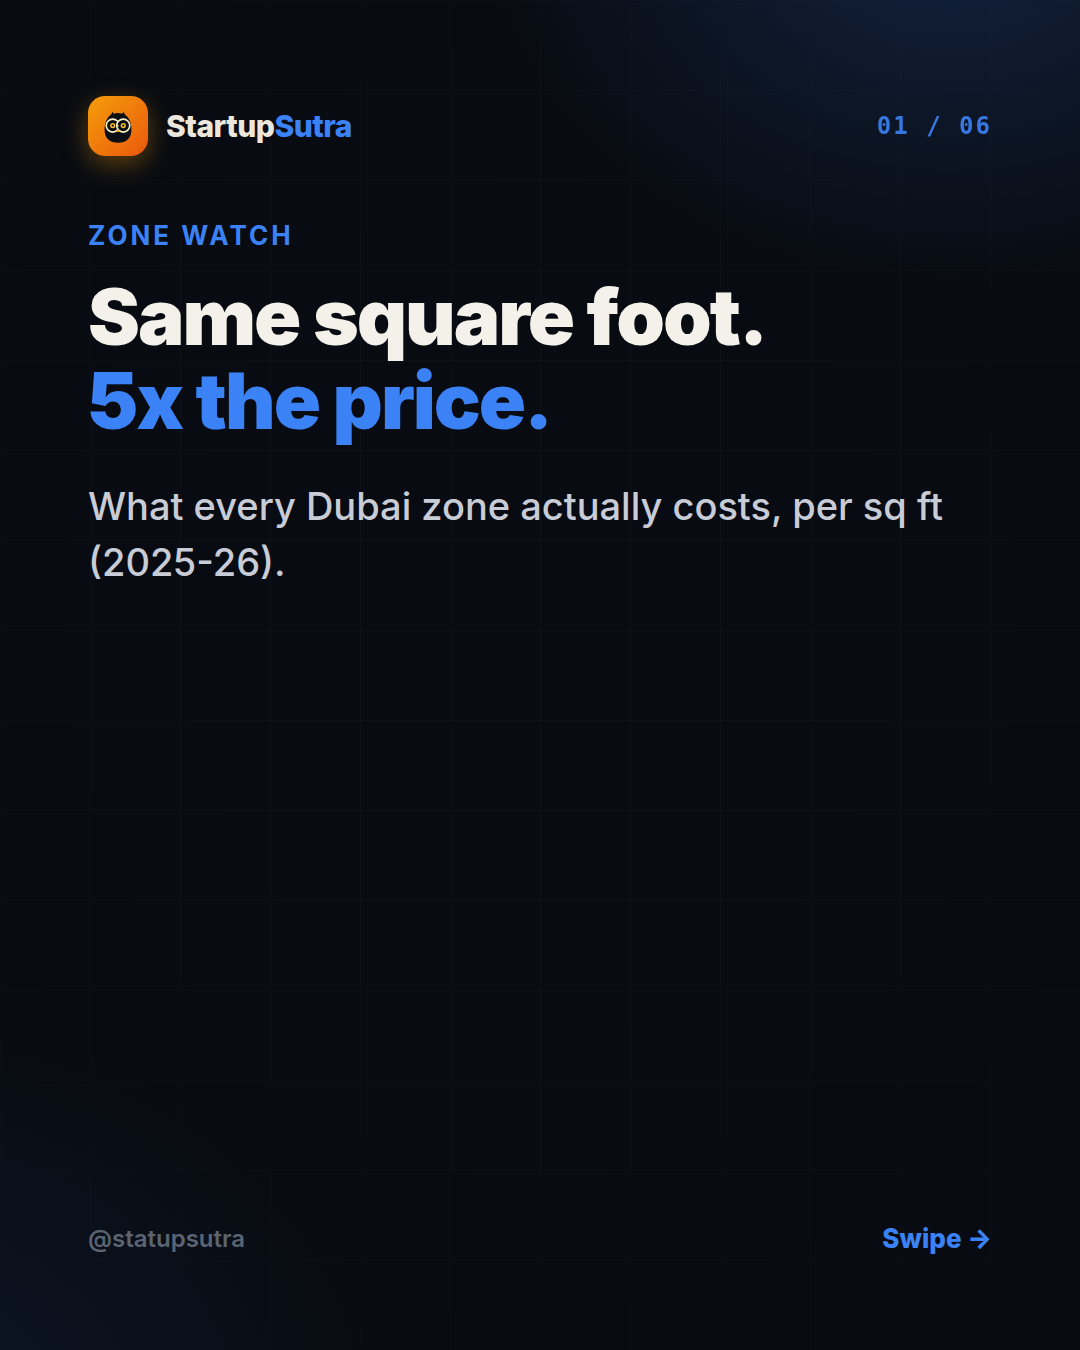
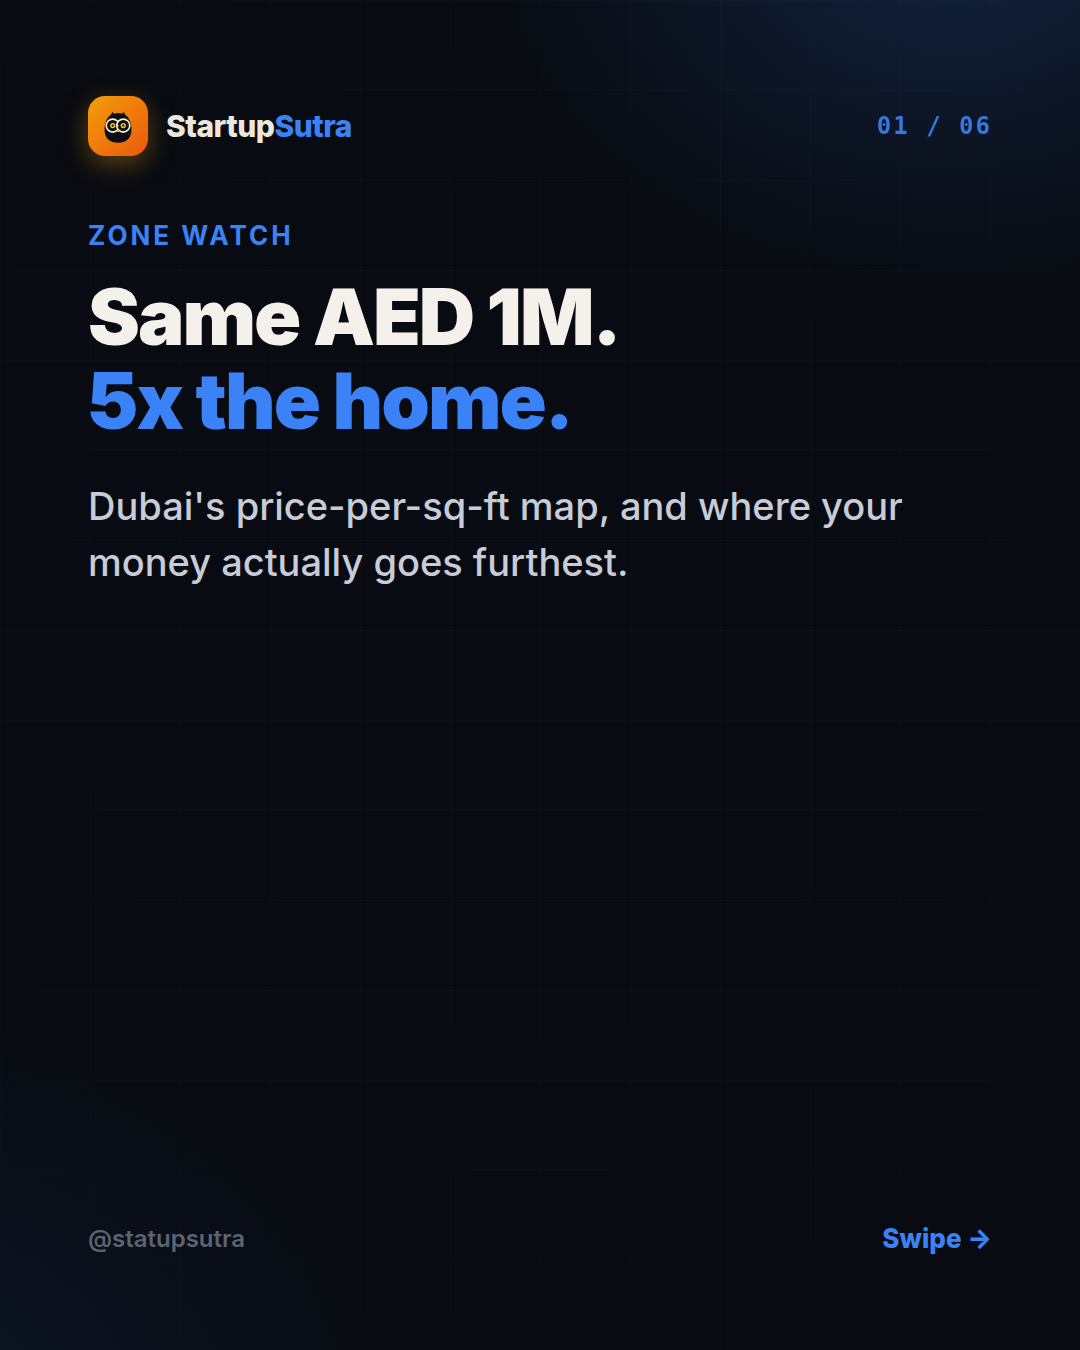
Rebuild Zone carousel: hook cover + all-zones 'What AED 1M buys' table
Carousel now tells its own story (not the reel): hook cover 'Same AED 1M. 5x the
home.' -> rate per sq ft by zone -> WHAT AED 1M BUYS across all 6 zones (Intl City
1,370 ft2 ... Palm 263) -> yield inversion (cheapest zone highest yield) -> the
read. The reel showed 2 zones; the carousel gives the full saveable map. Adds
carousel caption.

Claude-Session: https://claude.ai/code/session_01LRcEgKfHXnrMC6oknzTBx2

Changed region(s): [[0.0611, 0.3422, 0.8556, 0.4356], [0.275, 0.1867, 0.7028, 0.3422], [0.8556, 0.3422, 0.8861, 0.3733]]

diff --git a/StartupSutra/_uae-content-factory/zr_carousel.js b/StartupSutra/_uae-content-factory/zr_carousel.js
@@ -1,11 +1,15 @@
 module.exports = { acc:'#3b82f6',deep:'#1d4ed8',glow:'59,130,246',label:'Zone Watch',slides:[
-  {type:'cover',kick:'Zone Watch',size:'sm',title:"Same square foot.<br><span class='accent'>5x the price.</span>",sub:"What every Dubai zone actually costs, per sq ft (2025-26)."},
+  {type:'cover',kick:'Zone Watch',size:'sm',title:"Same AED 1M.<br><span class='accent'>5x the home.</span>",sub:"Dubai's price-per-sq-ft map, and where your money actually goes furthest."},
   {type:'bars',kick:'Price per sq ft (AED)',title:'What each zone costs',data:[
     {lbl:'Palm',v:3800,disp:'3,800'},{lbl:'Downtown',v:3000,disp:'3,000',muted:true},
     {lbl:'Bus. Bay',v:2550,disp:'2,550',muted:true},{lbl:'Marina',v:2200,disp:'2,200',muted:true},
     {lbl:'JVC',v:1400,disp:'1,400',muted:true},{lbl:'Intl City',v:730,disp:'730',muted:true}],
     src:'Bayut; Engel & Völkers (2025-26 avg)',swipe:true},
-  {type:'bignum',kick:'The spread',num:'5x',subnum:'gap between the priciest and cheapest zones',note:'Palm ~AED 3,800 vs International City ~AED 730 per sq ft.',src:'Bayut; E&V',swipe:true},
+  {type:'bars',kick:'What AED 1M buys (sq ft)',title:'Where your money goes furthest',data:[
+    {lbl:'Intl City',v:1370,disp:'1,370 ft²'},{lbl:'JVC',v:714,disp:'714 ft²',muted:true},
+    {lbl:'Marina',v:455,disp:'455 ft²',muted:true},{lbl:'Bus. Bay',v:392,disp:'392 ft²',muted:true},
+    {lbl:'Downtown',v:333,disp:'333 ft²',muted:true},{lbl:'Palm',v:263,disp:'263 ft²',muted:true}],
+    src:'Derived from area rates above',swipe:true},
   {type:'bignum',kick:'The twist',num:'8.9%',subnum:'gross rental yield in International City',note:"Dubai's cheapest zone per sq ft carries its highest yield. Prime trades cashflow for prestige.",src:'Market data 2025',swipe:true},
   {type:'lesson',tag:'The read',tx:"Cheap zones pay you.<br>Prime zones flex you.",note:'Rate per sq ft sets your entry price; yield sets your cashflow. Pick the zone for the goal: income (affordable) or capital plus prestige (prime).',swipe:true},
   {type:'cta',title:'Follow for the UAE, decoded daily.',note:'We price every zone so you buy with numbers, not vibes.',subfollow:'UAE real estate, decoded with data'},
